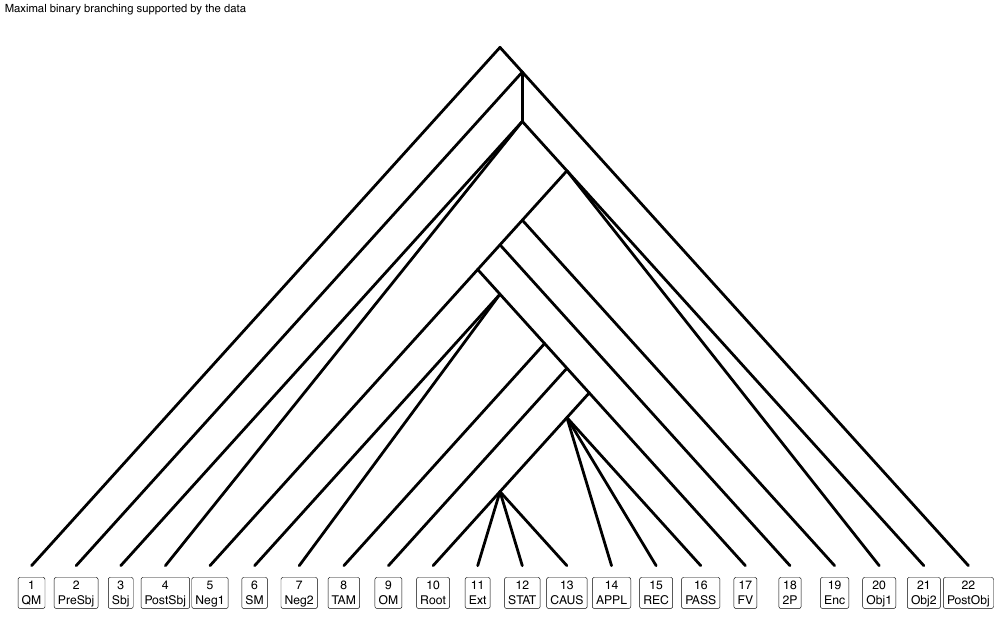
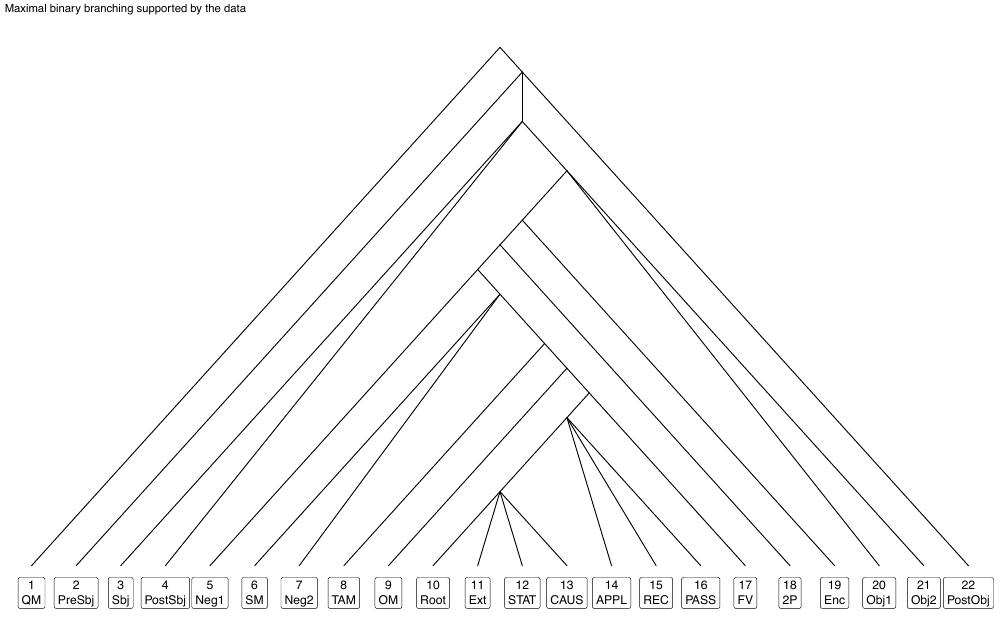
planarsviz: draw the illustration tree at the exemplary trees' line width
Jeff asked for the same thickness as the exemplary trees. Those pass no
line width to ggtree, so they use its default, 0.5. branch_size now
defaults to that when weight = "none" (it was 1.5), and still to 4 for the
weighted charts.

Rendered both side by side to confirm the weights match. Exemplary trees
re-checked: all 21 files still 0.0000% differing pixels; frequency tree and
four trees unaffected. Chart, catalogue image and the copy in results/
re-rendered.

Claude-Session: https://claude.ai/code/session_01Y9T6sSm3ipcLkWr35kXTRo

diff --git a/NonCollaborative/docs/planarsviz_charts.md b/NonCollaborative/docs/planarsviz_charts.md
@@ -183,7 +183,7 @@ plot_frequency_tree(bundle)
 | `selection` | Which selection in `selections.tsv` to draw (default `"consensus_all"`). |
 | `title` | Plot title; the default names the number of families. |
 | `weight` | What branch opacity and thickness show: `"families"` (default, the share of families containing the span), `"tests"` (support relative to the best-tested span), or `"none"` (solid — shape alone). |
-| `branch_size` | Thickness of a fully supported branch. Defaults to 4, the weighted charts' heaviest line; with `weight = "none"`, where every branch would be drawn at that weight, it defaults to 1.5. |
+| `branch_size` | Thickness of a fully supported branch. Defaults to 4, the weighted charts' heaviest line; with `weight = "none"`, where every branch would be drawn at that weight, it defaults to 0.5 — ggtree's own default, matching the exemplary trees. |
 
 Canvas 16 × 10 in. Renderer name `freqtree`; old file `nyan1308_freqtree.pdf`.
 

diff --git a/NonCollaborative/docs/PLANARSVIZ_LIBRARY_PROGRESS.md b/NonCollaborative/docs/PLANARSVIZ_LIBRARY_PROGRESS.md
@@ -667,8 +667,10 @@ Reference images: 63 PNGs at 100 dpi in `results/planarsviz/reference/`
 - Thickness: the weighted charts scale line width up to 4 at full support,
   so drawing unweighted put every branch at that maximum and the first
   version came out far too heavy (Jeff asked). `branch_size` now controls
-  it, defaulting to 1.5 when nothing is weighted and 4 otherwise, so the
-  weighted charts are untouched (re-checked, both still 0.0000%).
+  it, defaulting to 4 as before and to 0.5 when nothing is weighted —
+  ggtree's own default, so the illustration matches the exemplary trees,
+  which pass no line width (Jeff asked for that specifically). The weighted
+  charts are untouched (re-checked, both still 0.0000%).
 - Checks: frequency tree and four trees re-checked after the `weight`
   change, both still identical (0.0000%); 14 bundle tests pass, including a
   new one pinning that `most_binary` names a maximally resolved family.
